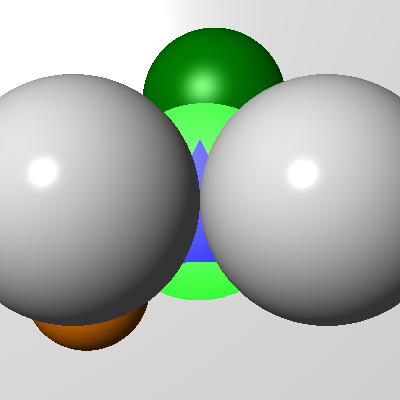
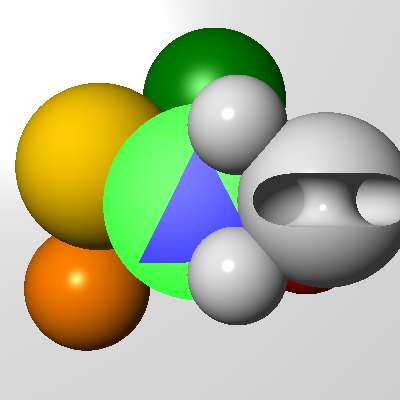
constructive solid geometry

diff --git a/raytracerframework_cpp/csg.cpp b/raytracerframework_cpp/csg.cpp
@@ -1,10 +1,10 @@
 #include"csg.h"
 
-std::pair<Hit,size_t> Csg::getNearestIntersectedObj(const Ray& ray)
+std::pair<Hit,int> Csg::getNearestIntersectedObj(const Ray& ray)
 {
 	Hit min_hit(std::numeric_limits<long double>::infinity(), Vector());
-	size_t foundIdx = -1;
-	for (size_t i = 0; i < objects.size(); ++i) {
+	int foundIdx = -1;
+	for (int i = 0; i < objects.size(); ++i) {
 		Hit hit(objects.at(i).first->intersect(ray));
 		if (hit.t < min_hit.t) {
 			min_hit = hit;
@@ -18,17 +18,60 @@ Hit Csg::intersect(const Ray &ray)
 {
     Ray transformedRay = transform(ray);
 
-    auto contact = getNearestIntersectedObj(transformedRay);
+	int insideCount = 0;
+	bool crossed = false;
+	bool hitFound = false;
+	Hit toReturn = Hit::NO_HIT();
 
-    if(contact.second != -1)
-    {
-        if(objects.at(contact.second).second == Union)
-        {
-			contact.first.N = removeTransformation(contact.first.N);
-            return contact.first;
-        }
-    }
-	return Hit::NO_HIT();
+	while(!hitFound)
+	{
+		auto contact = getNearestIntersectedObj(transformedRay);
+    	if(contact.second != -1)
+    	{
+        	if(objects.at(contact.second).second == Union)
+        	{
+				if(insideCount == 0)
+				{
+					contact.first.N = removeTransformation(contact.first.N);
+            		toReturn = contact.first;
+					hitFound = true;
+				}
+				else
+				{
+					crossed = true;
+					transformedRay.O += transformedRay.D*(contact.first.t+0.01);
+				}
+        	}
+			else
+			{
+				if(contact.first.N.dot(transformedRay.D)<=0)
+				{
+					insideCount += 1;
+					transformedRay.O += transformedRay.D*(contact.first.t+0.01);
+				}
+				else
+				{
+					if(insideCount == 1 && crossed)
+					{
+						contact.first.N = -removeTransformation(contact.first.N);
+            			toReturn = contact.first;
+
+						hitFound = true;
+					}
+					else
+					{
+						insideCount -= 1;
+						transformedRay.O += transformedRay.D*(contact.first.t+0.01);
+					}
+				}
+			}
+    	}
+		else
+		{
+			hitFound = true;
+		}
+	}
+	return toReturn;
 }
 
 Point Csg::getHit(double u, double v)

diff --git a/raytracerframework_cpp/csg.h b/raytracerframework_cpp/csg.h
@@ -9,7 +9,7 @@ enum CombinationMode_t{Intersect,Union};
 class Csg : public Object
 {
 private:
-    std::pair<Hit,size_t> getNearestIntersectedObj(const Ray& ray);
+    std::pair<Hit,int> getNearestIntersectedObj(const Ray& ray);
 public:
 	Csg(Point position, Triple rotation, Triple velocity) : Object(position, rotation, velocity) {}
 

diff --git a/raytracerframework_cpp/scene.cpp b/raytracerframework_cpp/scene.cpp
@@ -372,9 +372,10 @@ void Scene::render(Image &img)
 			double r=c*sqrt(n);
 			double th=n*goldenAngle;
 
-			#pragma omp parallel for
+			//#pragma omp parallel for
     		for (int y = 0; y < h; y++)
 			{
+				//#pragma omp parallel for
         		for (int x = 0; x < w; x++)
 				{
 					Color sumColor = Color(0.0,0.0,0.0);
